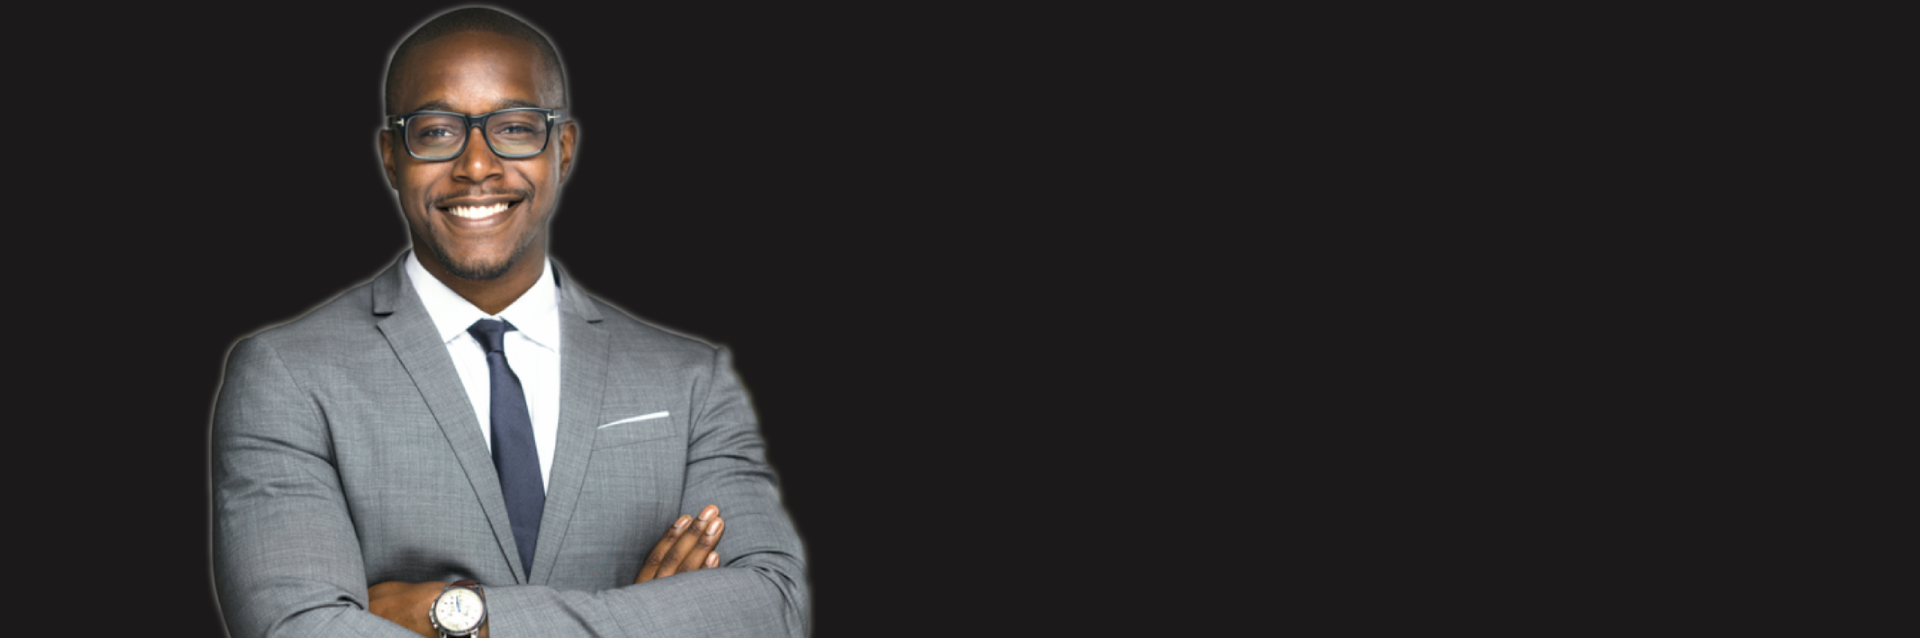
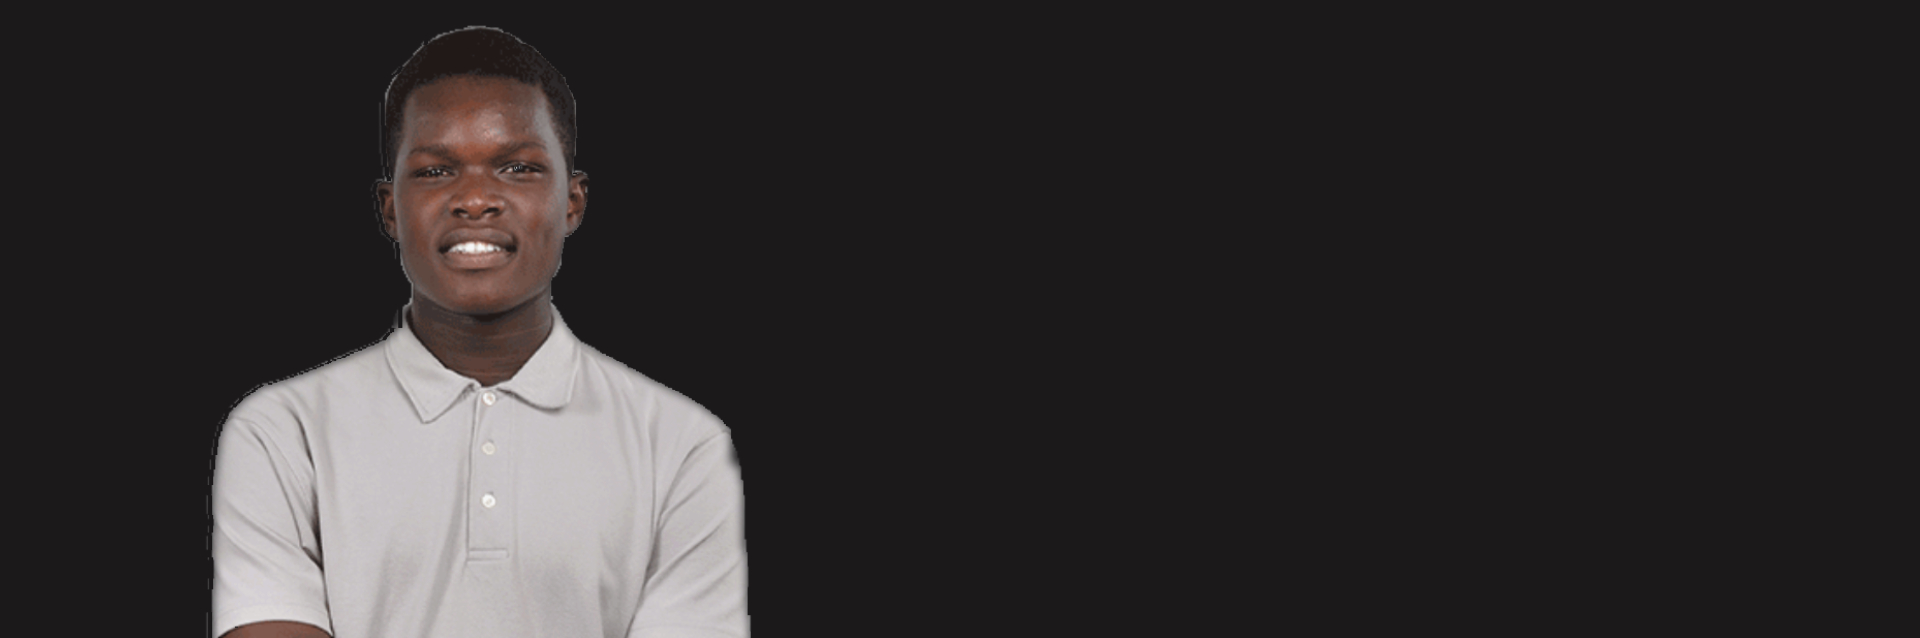
first commit

Changed region(s): [[0.0938, 0.0, 0.4375, 1.0]]

diff --git a/index.html b/index.html
@@ -25,14 +25,14 @@
       <header class="page-header slider-menu-position">
               <!-- RD Navbar Transparent-->
               <div class="rd-navbar-wrap">
-                <nav class="rd-navbar rd-navbar-top-panel rd-navbar-default rd-navbar-white rd-navbar-static-fullwidth-transparent rd-navbar-border-bottom" data-md-device-layout="rd-navbar-fixed" data-lg-device-layout="rd-navbar-static" data-md-stick-up-offset="90px" data-lg-stick-up-offset="75px" data-auto-height="false" data-lg-auto-height="true" data-layout="rd-navbar-fixed" data-xs-layout="rd-navbar-fixed" data-sm-layout="rd-navbar-fixed" data-md-layout="rd-navbar-fullwidth" data-lg-layout="rd-navbar-static" data-sm-stick-up="true" data-md-stick-up="true" data-lg-stick-up="true">
+                <nav class="rd-navbar rd-navbar-top-panel rd-navbar-default rd-navbar-white rd-navbar-static-fullwidth-transparent " data-md-device-layout="rd-navbar-fixed" data-lg-device-layout="rd-navbar-static" data-md-stick-up-offset="90px" data-lg-stick-up-offset="75px" data-auto-height="false" data-lg-auto-height="true" data-layout="rd-navbar-fixed" data-xs-layout="rd-navbar-fixed" data-sm-layout="rd-navbar-fixed" data-md-layout="rd-navbar-fullwidth" data-lg-layout="rd-navbar-static" data-sm-stick-up="true" data-md-stick-up="true" data-lg-stick-up="true">
                   <div class="rd-navbar-inner">
                     <!-- RD Navbar Panel-->
                     <div class="rd-navbar-panel">
                       <!-- RD Navbar Toggle-->
                       <button class="rd-navbar-toggle" data-rd-navbar-toggle=".rd-navbar, .rd-navbar-nav-wrap"><span></span></button>
                       <!-- Navbar Brand-->
-                      <div class="rd-navbar-brand"><img src="images/03.png" class="img-fluid logo" style="width:150px"  alt="img" ></div>
+                      <div class="rd-navbar-brand"><img src="images/03333.png" class="img-fluid logo" style="width:300px"  alt="img" ></div>
                     </div>
                     <div class="rd-navbar-menu-wrap">
                       <div class="rd-navbar-nav-wrap">
@@ -49,24 +49,24 @@
                           </div>
                           <!-- RD Navbar Nav-->
                           <ul class="rd-navbar-nav">
-                            <li class="active"><a href="index.html"><span>Home</span></a>
+                            <li class="active"><a href="index.html" style="color:#000"><span>Home</span></a>
                            
                             </li>
-                            <li><a href="about.html"><span>About</span></a>
+                            <li><a href="about.html" style="color:#000"><span>About</span></a>
                             
                             </li>
-                            <li><a href="services.html"><span>Our services</span></a>
+                            <li><a href="services.html" style="color:#000"><span>Our services</span></a>
                               
                             </li>
-                            <li><a href="programs.html"><span>Our programs</span></a>
+                            <li><a href="programs.html" style="color:#000"><span>Our programs</span></a>
                             </li>
-                            <li><a href="events.html"><span>Events</span></a>
+                            <li><a href="events.html" style="color:#000"><span>Events</span></a>
                             </li>
-                            <li><a href="gallery.html"><span>Gallery</span></a>
+                            <li><a href="gallery.html"style="color:#000"><span>Gallery</span></a>
                             </li>
-                            <li><a href="blog.html"><span>Blog</span></a>  
+                            <li><a href="blog.html" style="color:#000"><span>Blog</span></a>  
                             </li>
-                            <li><a href="contact.html"><span>contact</span></a></li>
+                            <li><a href="contact.html" style="color:#000"><span>contact</span></a></li>
                           </ul>
                         </div>
                       </div>
@@ -79,28 +79,24 @@
         <div class="bg-image bg-image-home-1 section-90 section-sm-top-111 section-md-0 section-home-intro secction-relative">
           <div class="shell-fluid">
             <div class="range range-xs-center text-md-left context-dark">
-              <div class="cell-md-5 veil reveal-md-block cell-md-bottom">
+              <div class="cell-md-4 veil reveal-md-block cell-md-bottom">
                 <div class="section-md-top-15"><img class="img-responsive home-intro-img" src="images/pages/home883x783.png" width="883" height="783" alt=""/>
                 </div>
               </div>
-              <div class="cell-sm-10 cell-md-7 cell-md-middle">
+              <div class="cell-sm-12 cell-md-7 cell-md-middle">
                 <div class="inset-md-left-20 inset-lg-left-55 inset-xl-left-90 section-md-34 section-lg-0">
-                  <h1 class="text-bold text-italic">
-                    Our Business – <br>Investing in People</h1>
-                  <p class="text-alto inset-lg-right-36">We provide structured training support, motivation, Coaching and Mentorship interventions that address specific needs and achieve positives outcomes.
-                    We assist individuals to access their own personal resources, capabilities and qualities to achieve defined goals.
-                    Achieve Solutions strategy and objectives relate to People Empowerment, Team Development & Organization Success.
-                    
-                  </p>
+                  <h1 class="text-bold text-center text-bold ">
+                   Investing in People</h1>
+                  
                   <ul class="list-inline-custom">
                     <li><a class="icon icon-white-xs fa-facebook" href="https://www.facebook.com/achievesol/" target="_blank"></a></li>
-                    <li><a class="icon icon-white-xs fa-twitter" href="https://twitter.com/achievesol" target="_blank"></a></li>
-                    <li><a class="icon icon-white-xs fa-instagram" href="#" target="_blank"></a></li>
+                    <li><a class="icon icon-white-xs3 fa-twitter" href="https://twitter.com/achievesol" target="_blank"></a></li>
+                    <li><a class="icon icon-white-xs2 fa-instagram" href="https://www.instagram.com/achievesolutions/" target="_blank"></a></li>
           
                   </ul>
                   <div class="offset-top-30 offset-xl-top-55">
                     <div class="group">
-                      <div><a class="btn btn-circle btn-primary" style="box-shadow: 0 6px 22px 0 #000000;" href="404-page.html">view all services</a></div>
+                      <div><a class="btn btn-circle btn-primary " style="box-shadow: 0 6px 22px 0 #000000; color: #000000" href="services.html">view all services</a></div>
                       <!-- <div><a class="btn btn-circle btn-white-outline" href="#">learn more</a></div> -->
                     </div>
                   </div>
@@ -110,37 +106,69 @@
           </div>
         </div>
       </header>
-      <!-- <section class="bg-image bg-image-home-2 section-40 section-md-40 "  >
+      <section style="border-bottom: 2px solid rgb(255, 153, 0)"  class="bg-image bg-image-home-2 section-40 section-md-40 "  >
         <div class="inset-lg-left-51 inset-lg-right-51 offset-top-30" >
           <div class="shell-fluid-full">
          
             <div class="row offset-top-35 text-sm-left inset-md-left-30 inset-md-right-30 inset-left-15 inset-right-15">
   
-              <div class="col-xs-6 offset-top-20">
+              <div class="col-xs-12 offset-top-20">
                 <div class="section-5 inset-left-5 inset-right-5">
                   <div>
-                    <h2 class="text-bold header-preffix text-md-left text-italic" style="color:#0021d9 ">OUR MISSION</h2>
+                    <h2 class="text-bold  text-center" style="color:#0021d9;  "> Motivation | Empowerment | Transformation</h2>
                   </div>
-                  <div class="offset-top-10">
+                  <!-- <div class="offset-top-10">
                     <p>To provide motivation, mentoring, coaching, training and development services to individuals, teams, and organizations for better results and transformation.</p>
-                  </div>
+                  </div> -->
                 </div>
               </div>
-              <div class="col-xs-6 offset-top-20">
-                <div class="section-5 inset-left-5 inset-right-5">
-                  <div>
-                    <h2 class="text-bold header-preffix text-md-left text-italic" style="color:#0021d9 ;">OUR VISION</h2>
-                  </div>
-                  <div class="offset-top-10">
-                    <p>To be the most preferred training and development organization in Africa.</p>
-                  </div>
-                </div>
-              </div>
+              
             </div>
           </div>
         </div>
-  </section> -->
-
+  </section>
+  <section class="section-90 section-md-top-120 section-md-bottom-111">
+    <div class="shell-fluid">
+      <h3 class="text-bold text-center text-italic" style="color:#ff8c00;">WHAT WE DO</h3>
+      <p class="text-alto  text-center  inset-lg-right-36" style="color: rgb(71, 71, 71)">We provide structured training support, motivation, Coaching and Mentorship interventions that address specific needs and achieve positives outcomes.
+        We assist individuals to access their own personal resources, capabilities and qualities to achieve defined goals.
+        Achieve Solutions strategy and objectives relate to People Empowerment, Team Development & Organization Success.
+        
+      </p>
+      <div class="range range-xs-center range-md-left text-left text-md-center text-lg-left">
+        <div class="cell-xs-10 cell-sm-8 cell-md-4">
+          <div class="unit unit-xl-horizontal unit-lg-horizontal unit-md-vertical unit-md-middle unit-lg-top unit-sm-horizontal unit-xs-horizontal unit-spacing-sm">
+            <div class="unit-left"><img class="img-responsive" src="images/pages/home-3-570x420.jpg" width="390" height="390" alt=""/>
+            </div>
+           
+          </div>
+        
+        
+        </div>
+        <div class="cell-xs-10 cell-sm-8 cell-md-4 offset-top-60 offset-md-top-0">
+          <div class="unit unit-xl-horizontal unit-lg-horizontal unit-md-vertical unit-sm-horizontal unit-xs-horizontal unit-spacing-md unit-xs-top">
+            <div class="unit-left"><span class="icon icon-xl mdi mdi-book-open-variant text-matrix"></span></div>
+            <div class="unit-body">
+                <h4 class="text-bold">Motivational Talks</h4>
+                <p>We speak to minds and hearts of many. The talks are simply inspirational. We motivate, challenge, empower and transform our audience. Our talks will make you bigger than your life challenge. The talks will nurture your course, enlighten your outlook and keep you going with hope and determination. </p>
+            </div>
+          </div>
+         
+         
+        </div>
+        <div class="cell-xs-10 cell-sm-8 cell-md-4">
+          <div class="unit unit-xl-horizontal unit-lg-horizontal unit-md-vertical unit-md-middle unit-lg-top unit-sm-horizontal unit-xs-horizontal unit-spacing-sm">
+            <div class="unit-left"><img class="img-responsive" src="images/pages/home-3-570x420.jpg" width="390" height="390" alt=""/>
+            </div>
+           
+          </div>
+        
+        
+        </div>
+       
+      </div>
+    </div>
+  </section>
 
 
      <!-- What Jordan Has to Offer-->
@@ -154,9 +182,15 @@
             <div class="cell-md-7 cell-xl-preffix-1 cell-md-bottom offset-top-60 offset-md-top-0 text-left">
               
    
-              <h2 class="text-bold header-preffix text-md-left text-italic" style="color:#ff8c00;">WHAT WE DO</h2>
-              <div class="range offset-top-60">
-                <div class="cell-sm-6">
+              <h3 class="text-bold text-md-left text-italic" style="color:#ff8c00;">WHAT WE DO</h3>
+              <div class="range offset-top-20 ">
+                  <p class="text-alto  text-center  inset-lg-right-36" style="color: rgb(71, 71, 71)">We provide structured training support, motivation, Coaching and Mentorship interventions that address specific needs and achieve positives outcomes.
+                      We assist individuals to access their own personal resources, capabilities and qualities to achieve defined goals.
+                      Achieve Solutions strategy and objectives relate to People Empowerment, Team Development & Organization Success.
+                      
+                    </p>
+                  
+                <div class="cell-sm-6 offset-top-40 ">
                   <div class="unit unit-xl-horizontal unit-lg-horizontal unit-md-vertical unit-sm-horizontal unit-xs-horizontal unit-spacing-md unit-xs-top">
                     <div class="unit-left"><span class="icon icon-xl mdi mdi-book-open-variant text-matrix"></span></div>
                     <div class="unit-body">
@@ -165,7 +199,7 @@
                     </div>
                   </div>
                 </div>
-                <div class="cell-sm-6 offset-top-50 offset-sm-top-0">
+                <div class="cell-sm-6 offset-top-40 offset-sm-top-0">
                   <div class="unit unit-xl-horizontal unit-lg-horizontal unit-md-vertical unit-sm-horizontal unit-xs-horizontal unit-spacing-md unit-xs-top">
                     <div class="unit-left"><span class="icon icon-xl mdi mdi-presentation text-matrix"></span></div>
                     <div class="unit-body">

diff --git a/css/style.css b/css/style.css
@@ -20951,8 +20951,15 @@ fieldset[disabled] .btn-link:focus {
 }
 
 .icon-white-xs {
-    color: rgba(255, 255, 255, 0.842)
+    color: rgba(0, 59, 114, 0.842)
 }
+.icon-white-xs2 {
+    color: rgb(167, 0, 117)
+}
+.icon-white-xs3 {
+    color: rgb(0, 170, 182)
+}
+
 
 .icon-silver {
     color: #bfbfbf
@@ -36050,7 +36057,8 @@ a.pswp__share--download:hover {
     font-size: 14px;
     text-transform: uppercase;
     font-weight: 700;
-    line-height: 24px
+    line-height: 24px;
+   
 }
 
 .rd-navbar {
@@ -40796,11 +40804,11 @@ a.pswp__share--download:hover {
 
 .rd-navbar-top-panel.rd-navbar-static.rd-navbar-static-fullwidth-transparent.rd-navbar--is-stuck,
 .rd-navbar-top-panel.rd-navbar-fullwidth.rd-navbar-static-fullwidth-transparent.rd-navbar--is-stuck {
-    background: -moz-linear-gradient(90deg, #ff8c00  0%, #ff8c00  100%);
-    background: -webkit-linear-gradient(90deg, #ff8c00 0%, #ff8c00 100%);
-    background: -o-linear-gradient(90deg, #ff8c00 0%, #ff8c00 100%);
-    background: -ms-linear-gradient(90deg, #ff8c00 0%, #ff8c00 100%);
-    background: linear-gradient(90deg, #ff8c00 0%, #ff8c00 100%)
+    background: -moz-linear-gradient(90deg, #0021d9 0%, #0021d9 100%);
+    background: -webkit-linear-gradient(90deg, #0021d9 0%, #0021d9 100%);
+    background: -o-linear-gradient(90deg, #0021d9 0%, #0021d9 100%);
+    background: -ms-linear-gradient(90deg, #0021d9 0%, #0021d9 100%);
+    background: linear-gradient(90deg, #0021d9 0%, #0021d9 100%)
 }
 
 .rd-navbar-top-panel.rd-navbar-static.rd-navbar-static-fullwidth-transparent.rd-navbar-primary,
@@ -40810,11 +40818,11 @@ a.pswp__share--download:hover {
 
 .rd-navbar-top-panel.rd-navbar-static.rd-navbar-static-fullwidth-transparent.rd-navbar-primary.rd-navbar--is-stuck,
 .rd-navbar-top-panel.rd-navbar-fullwidth.rd-navbar-static-fullwidth-transparent.rd-navbar-primary.rd-navbar--is-stuck {
-    background: -moz-linear-gradient(90deg, #ff8c00 0%, #ff8c00 100%);
-    background: -webkit-linear-gradient(90deg, #ff8c00 0%, #ff8c00 100%);
-    background: -o-linear-gradient(90deg, #ff8c00 0%, #ff8c00 100%);
-    background: -ms-linear-gradient(90deg, #ff8c00 0%, #ff8c00 100%);
-    background: linear-gradient(90deg, #ff8c00  0%, #ff8c00  100%)
+    background: -moz-linear-gradient(90deg, #0021d9 0%, #0021d9 100%);
+    background: -webkit-linear-gradient(90deg, #0021d9 0%, #0021d9 100%);
+    background: -o-linear-gradient(90deg, #0021d9 0%, #0021d9 100%);
+    background: -ms-linear-gradient(90deg, #0021d9 0%, #0021d9 100%);
+    background: linear-gradient(90deg, #0021d9 0%, #0021d9 100%)
 }
 
 .rd-navbar-top-panel.rd-navbar-static .rd-navbar-inner>.rd-navbar-top-panel {

diff --git a/about.html b/about.html
@@ -49,7 +49,7 @@
                           </div>
                           <!-- RD Navbar Nav-->
                           <ul class="rd-navbar-nav">
-                            <li class="active"><a href="index.html"><span>Home</span></a>
+                            <li class="active"><a href="index.html" style="color:#000"><span>Home</span></a>
                            
                             </li>
                             <li><a href="about.html"><span>About</span></a>
@@ -81,6 +81,12 @@
         <div class="shell section-bottom-30">
           <div class="veil reveal-md-block">
             <h1 class="text-bold">About us</h1>
+            <ul class="list-inline-custom">
+              <li><a class="icon icon-white-xs fa-facebook" href="https://www.facebook.com/achievesol/" target="_blank"></a></li>
+              <li><a class="icon icon-white-xs3 fa-twitter" href="https://twitter.com/achievesol" target="_blank"></a></li>
+              <li><a class="icon icon-white-xs2 fa-instagram" href="https://www.instagram.com/achievesolutions/" target="_blank"></a></li>
+    
+            </ul>
           </div>
           <ul class="list-inline list-inline-with-arrows p">
             <li><a class="text-white" href="index.html">Home</a></li>
